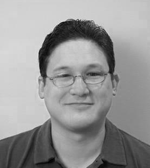
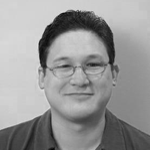
Added Eric and JJ

diff --git a/index.html b/index.html
@@ -236,6 +236,7 @@ _,.-=~'`^`'~=-.,__,.-=~'`^`'~=-.,__,.-=~'`^`'~=-.,.-=~'`^`'~=-.,__,.-=~'
 					<li>
 						<div class="links">
 							<a href="http://twitter.com/ireneros" class="twitter icon" target="_blank" title="@ireneros"></a>
+							<a href="https://plus.google.com/110949345457543290862" class="gplus icon" target="_blank" title="+Irene Ros">+</a>
 						</div>
 						<div class="img"><img src="static1/img/speakers/ireneros.png" alt="Irene Ros" border="0" /></div>
 						<div class="name">
@@ -248,15 +249,16 @@ _,.-=~'`^`'~=-.,__,.-=~'`^`'~=-.,__,.-=~'`^`'~=-.,.-=~'`^`'~=-.,__,.-=~'
 						</div>
 					</li>
 					<li>
+						<div class="links">
+							<a href="http://twitter.com/ebidel" class="twitter icon" target="_blank" title="@ebidel"></a>
+							<a href="https://plus.google.com/115478738847874567952" target="_blank" class="gplus icon" title="+Eric Bidelman">+</a>
+						</div>
+						<div class="img"><img src="static1/img/speakers/ericbidelman.png" alt="Eric Bidelman" border="0" /></div>
 						<div class="name">
-							Check back every week
+							Eric Bidelman
 						</div>
 						<div class="bio">
-							We'll reveal more speakers every week. Be sure to check back and get the updates!<br/><br/>
-							Follow us on <a href="http://twitter.com/jscamp_asia" target="_blank">Twitter</a><br/>
-							and <a href="http://facebook.com/javascriptcamp" target="_blank">Facebook</a><br/><br/>
-							Tell us who you miss on this list in our 
-							<a href="http://jscamp.wufoo.com/forms/call-for-speakers" target="_blank">Call for Speakers</a>!
+							Eric is a Senior Developer Programs Engineer on the <a href="http://www.google.com/chrome" target="_blank">Google Chrome</a> team. He is the author of "Using the HTML5 Filesystem API" and a core contributor to <a href="http://www.html5rocks.com" target="_blank">html5rocks.com</a>. Prior to Google, Eric worked as a software engineer at the University of Michigan where he designed rich web applications and APIs for the university's 19 libraries.
 						</div>
 					</li>
 				</ul>
@@ -274,6 +276,18 @@ _,.-=~'`^`'~=-.,__,.-=~'`^`'~=-.,__,.-=~'`^`'~=-.,.-=~'`^`'~=-.,__,.-=~'
 							making bad jokes about VBScript and dreaming of happy hour. The only native Brit in the company described him in one word: 'cheeky'. You can see him live on stage regularly, with talks about Cloud9, node.js, scaling and mobile development.
 						</div>
 					</li>
+					<li>
+						<div class="name">
+							Check back every week
+						</div>
+						<div class="bio">
+							We'll reveal more speakers every week. Be sure to check back and get the updates!<br/><br/>
+							Follow us on <a href="http://twitter.com/jscamp_asia" target="_blank">Twitter</a><br/>
+							and <a href="http://facebook.com/javascriptcamp" target="_blank">Facebook</a><br/><br/>
+							Tell us who you miss on this list in our 
+							<a href="http://jscamp.wufoo.com/forms/call-for-speakers" target="_blank">Call for Speakers</a>!
+						</div>
+					</li>
 				</ul>
 			</div>
 			<div class="sessiondesc" id="workshopsdesc">
@@ -284,20 +298,31 @@ _,.-=~'`^`'~=-.,__,.-=~'`^`'~=-.,__,.-=~'`^`'~=-.,.-=~'`^`'~=-.,__,.-=~'
 				</span>
 				<ul class="speakers">
 					<li>
+						<div class="links">
+							<a href="https://plus.google.com/115478738847874567952" target="_blank" class="gplus icon" title="+Shannon -jj Behrens">+</a>
+						</div>
+						<div class="img"><img src="static1/img/speakers/jj.png" alt="Shannon &quot;JJ&quot; Behrens" border="0" /></div>
+						<div class="name">
+							Shannon &quot;JJ&quot; Behrens
+						</div>
+						<div class="bio">
+							JJ is a developer advocate at Google. His goal is to help people write high-fidelity, high-performance, rich, client-side applications in <a href="http://code.google.com/p/dart/" target="_blank">Dart</a>. He's a well-known member of the Python community. He <a href="http://jjinux.blogspot.com" target="_blank">blogs</a> on topics such as Python, Ruby, Linux, open source software, the Web, and lesser-known programming languages.
+						</div>
+					</li>
+				</ul>
+				<ul class="speakers">
+					<li>
 						<div class="name">
 							Soon!
 						</div>
 						<div class="bio">
-							Workshops hosts will be announced soon. Be sure to check back and get the updates!<br/><br/>
+							More Workshop hosts and the topics will be announced closer to the conference. Be sure to check back and get the updates!<br/><br/>
 							Follow us on <a href="http://twitter.com/jscamp_asia" target="_blank">Twitter</a><br/>
 							and <a href="http://facebook.com/javascriptcamp" target="_blank">Facebook</a><br/><br/>
 							Suggest your favorite host in our
 							<a href="http://jscamp.wufoo.com/forms/call-for-speakers" target="_blank">Call for Speakers</a>!
 						</div>
 					</li>
-				</ul>
-				<ul class="speakers">
-	
 				</ul>
 				<ul class="speakers">
 	

diff --git a/static1/css/style.css b/static1/css/style.css
@@ -640,7 +640,7 @@ h3 {
   margin-left: 27px;
 }
 a.icon {
-  display: inline-block;
+  display: block;
   width: 40px;
   height: 40px;
   cursor: pointer;
@@ -663,6 +663,15 @@ a.icon.twitter {
   background-image: url("../img/twitter.png");
   background-repeat: no-repeat;
   background-position: 6px 6px;
+}
+a.icon.gplus {
+  color: #fff !important;
+  font-size: 2.5em;
+  line-height: 40px;
+  font-weight: bold;
+  font-family: Courier, monospace;
+  text-align: center;
+  text-decoration: none;
 }
 #js {
   color: #000;
